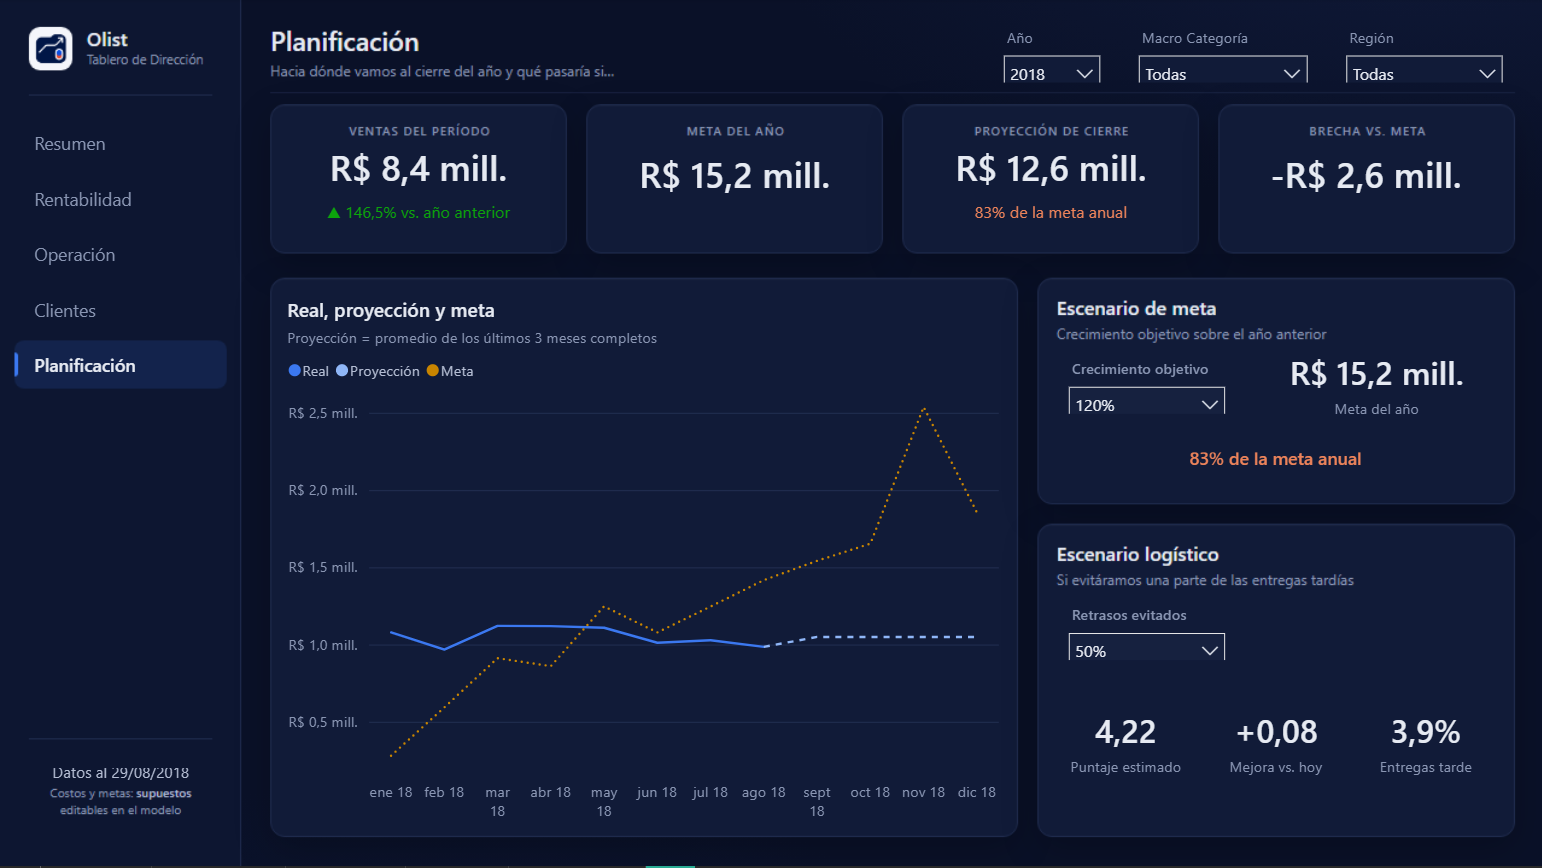
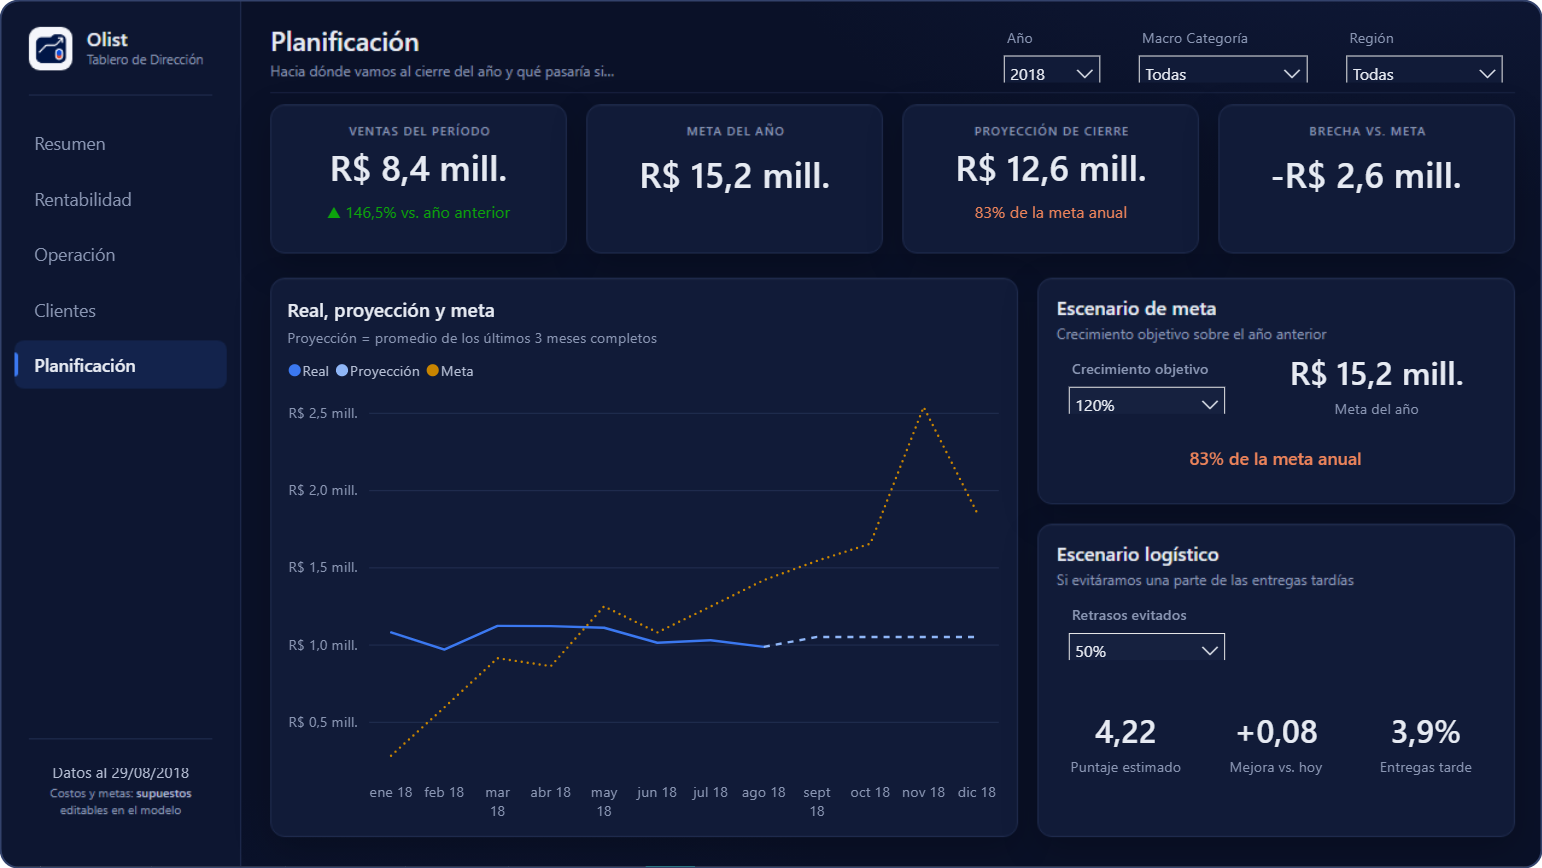
Redesign README for the GitHub project page
- Centered header with badges and section links over the hero image.
- Key findings as stat cards instead of a table with an empty header.
- Pages as a captioned 2x2 gallery (replaces the duplicated page table
  and the uncaptioned thumbnails).
- Mermaid diagram of the star schema; repository tree collapsed.
- Screenshots framed with rounded corners and a thin border so the
  dark report stands out on both GitHub themes
  (design/frame_screenshots.ps1).

Changed region(s): [[0.0, 0.0, 1.0, 1.0], [0.0, 0.0, 0.0311, 0.0311]]

diff --git a/README.md b/README.md
@@ -1,57 +1,108 @@
-# Olist E-commerce · Executive Dashboard in Power BI
+<div align="center">
 
-An executive dashboard for **Olist**, the Brazilian e-commerce marketplace, built to answer three questions a leadership team asks every month: *are we on track?*, *why?* and *where do we act first?*
+# Olist E-commerce · Executive Dashboard
 
-The dashboard is in Spanish. It is a Power BI Project (PBIP): the semantic model (TMDL) and the report (PBIR) are plain text, versioned here and generated/validated with Python.
+**A Power BI dashboard that tells leadership whether the business is on track, why, and where to act first.**
 
-![Executive summary](docs/img/resumen.png)
+![Power BI](https://img.shields.io/badge/Power_BI-PBIP-F2C811?logo=powerbi&logoColor=black)
+![DAX](https://img.shields.io/badge/DAX-120%2B_measures-0A66C2)
+![Power Query](https://img.shields.io/badge/Power_Query-M-217346)
+![Python](https://img.shields.io/badge/Python-build_%26_validation-3776AB?logo=python&logoColor=white)
 
-## Key findings (Jan–Aug 2018)
+[Key findings](#key-findings) · [Pages](#pages) · [Data model](#data-model) · [Design](#report-design) · [How to open](#how-to-open-it)
 
-| | |
-|---|---|
-| **Growth** | Sales R$ 8.4M, **+146.5%** vs. the same period of 2017 and **112%** of the target so far. |
-| **Year-end risk** | At the current run-rate the year closes at **R$ 12.6M, 83% of the R$ 15.2M annual target**. |
-| **Logistics** | Late deliveries **worsened 4.3 pp** (7.8%). **75%** of them happen in transit, not in seller dispatch (9.0 vs. 2.5 days). |
-| **Satisfaction** | Late orders score **2.24 / 5** vs. **4.30** for on-time ones. Avoiding half of the late deliveries would lift the average from 4.14 to 4.22. |
-| **Concentration** | **16 of 63 categories** generate 80% of the contribution margin. |
-| **Retention** | Only 2.1% of customers buy again, and monthly cohort retention stays below 1%. |
+<br>
 
-> Margin figures use **editable cost assumptions** (cost of goods by category, 3% payment fee), since Olist does not publish costs. Targets assume +120% over the previous year. Both are flagged as assumptions in the report.
+<img src="docs/img/resumen.png" alt="Executive summary page" width="100%">
+
+<sub>Olist is a Brazilian e-commerce marketplace. The dashboard is in Spanish.</sub>
+
+</div>
+
+## Key findings
+
+<sub>January–August 2018 vs. the same period of 2017.</sub>
+
+<table>
+  <tr>
+    <td align="center" width="33%"><h2>+146.5%</h2>sales growth<br><sub>R$ 8.4M · 112% of the target so far</sub></td>
+    <td align="center" width="33%"><h2>83%</h2>of the annual target at year-end<br><sub>R$ 12.6M projected vs. R$ 15.2M</sub></td>
+    <td align="center" width="33%"><h2>+4.3 pp</h2>late deliveries (now 7.8%)<br><sub>75% happen in transit, not dispatch</sub></td>
+  </tr>
+  <tr>
+    <td align="center"><h2>2.24 vs 4.30</h2>review score, late vs. on time<br><sub>halving delays → 4.14 to 4.22</sub></td>
+    <td align="center"><h2>16 of 63</h2>categories make 80% of margin<br><sub>contribution margin, Pareto/ABC</sub></td>
+    <td align="center"><h2>2.1%</h2>of customers buy again<br><sub>monthly cohort retention &lt; 1%</sub></td>
+  </tr>
+</table>
+
+> [!NOTE]
+> Olist does not publish costs, so margin uses **editable assumptions**: cost of goods by category and a 3% payment fee. The target assumes +120% over the previous year. The report flags both as assumptions.
 
 ## Pages
 
-| Page | What it answers |
-|---|---|
-| **Resumen** | KPIs vs. prior year and target, monthly sales vs. target, target attainment by category, year-end projection. |
-| **Rentabilidad** | Contribution margin by category, Pareto/ABC and margin concentration. |
-| **Operación** | Root cause of late deliveries (seller dispatch vs. carrier) and a ranking of sellers to review. |
-| **Clientes** | Retention by first-purchase cohort, purchase frequency and ticket ranges. |
-| **Planificación** | Actual vs. projection vs. target, plus what-if scenarios (growth target, fewer late deliveries). |
-
-<p>
-  <img src="docs/img/rentabilidad.png" width="49%">
-  <img src="docs/img/operacion.png" width="49%">
-  <img src="docs/img/clientes.png" width="49%">
-  <img src="docs/img/planificacion.png" width="49%">
-</p>
+<table>
+  <tr>
+    <td width="50%" valign="top">
+      <b>Rentabilidad</b> · profitability<br>
+      <sub>Contribution margin by category, Pareto/ABC and how concentrated the margin is.</sub><br><br>
+      <img src="docs/img/rentabilidad.png" alt="Profitability page">
+    </td>
+    <td width="50%" valign="top">
+      <b>Operación</b> · logistics<br>
+      <sub>Why deliveries are late (seller dispatch vs. carrier) and which sellers to review first.</sub><br><br>
+      <img src="docs/img/operacion.png" alt="Logistics page">
+    </td>
+  </tr>
+  <tr>
+    <td valign="top">
+      <b>Clientes</b> · customers<br>
+      <sub>Retention by first-purchase cohort, purchase frequency and ticket ranges.</sub><br><br>
+      <img src="docs/img/clientes.png" alt="Customers page">
+    </td>
+    <td valign="top">
+      <b>Planificación</b> · planning<br>
+      <sub>Actual vs. projection vs. target, plus what-if scenarios for the target and for delays.</sub><br><br>
+      <img src="docs/img/planificacion.png" alt="Planning page">
+    </td>
+  </tr>
+</table>
 
 ## Data model
 
-A star schema built in Power Query from a single flat file, replacing the original one-table model, which inflated sales by 28% because payments were repeated once per order item.
+A star schema built in Power Query from a single flat file. It replaces the original one-table model, which **inflated sales by 28%** because payments were repeated once per order item.
 
-- **Facts:** `Items` (109,796 order items) and `Pagos` (100,396 payments), both related to `Pedidos` (96,124 orders).
-- **Dimensions:** `Clientes`, `Productos`, `Vendedores` and a marked `Calendario` date table.
-- **Measures:** 120+ DAX measures in folders: sales, orders, customers, logistics, reviews, profitability, prior-year comparisons, targets and projection, scenarios, and SVG visuals rendered inside tables.
-- **Design choices:** a single bidirectional relationship (`Items`↔`Pedidos`) so product filters reach order-level KPIs; prior-year comparisons capped at the last date with data; a precomputed `Recompras` table so the cohort matrix renders in ~0.2 s instead of ~8 s.
+```mermaid
+flowchart LR
+    Clientes --> Pedidos
+    Calendario --> Pedidos
+    Pedidos <--> Items
+    Pedidos --> Pagos
+    Productos --> Items
+    Vendedores --> Items
+```
+
+| Layer | Contents |
+|---|---|
+| **Facts** | `Items` (109,796 order items) and `Pagos` (100,396 payments), both related to `Pedidos` (96,124 orders) |
+| **Dimensions** | `Clientes`, `Productos`, `Vendedores` and a marked `Calendario` date table |
+| **Measures** | 120+ DAX measures in folders: sales, orders, customers, logistics, reviews, profitability, prior-year comparisons, targets and projection, scenarios, and SVG visuals rendered inside tables |
+
+Design choices:
+
+- **Filtering:** a single bidirectional relationship (`Items` ↔ `Pedidos`), so product filters reach order-level KPIs.
+- **Comparisons:** prior-year values are capped at the last date with data, so January–August is never compared against a full year.
+- **Performance:** a precomputed `Recompras` table renders the cohort matrix in ~0.2 s instead of ~8 s.
 
 ## Report design
 
-- One dark theme with a categorical palette **validated for color-vision deficiency** on the dark surface.
-- No dual-axis charts. Target and projection lines are dashed. Variance is shown with ▲/▼ and a label, never with color alone.
-- Page backgrounds are designed in HTML/CSS and rendered to PNG. The native Power BI visuals are placed on top using the same coordinates from [`design/layout.json`](design/layout.json).
+- **Palette:** a dark theme whose categorical palette is **validated for color-vision deficiency** on the dark surface.
+- **Charts:** no dual-axis charts; target and projection lines are dashed.
+- **Variance:** always shown with ▲/▼ and a label, never with color alone.
+- **Backgrounds:** designed in HTML/CSS and rendered to PNG. The native visuals are placed on top using the same coordinates from [`design/layout.json`](design/layout.json).
 
-## Repository structure
+<details>
+<summary><b>Repository structure</b></summary>
 
 ```
 Olist_Dashboard.pbip              ← open this in Power BI Desktop
@@ -65,7 +116,10 @@ design/
   build_backgrounds.py            ← HTML page backgrounds → PNG (headless Edge)
   build_report.py                 ← PBIR pages and visuals
   validate.py                     ← checks that every field used by a visual exists in the model
+docs/img/                         ← screenshots used in this README
 ```
+
+</details>
 
 ## How to open it
 
@@ -75,10 +129,10 @@ design/
 
 To regenerate the model extras, backgrounds and pages after editing `design/layout.json` (Windows, Python 3.10+, Microsoft Edge, with Power BI Desktop closed):
 
-```
+```bash
 python design/build.py
 ```
 
-## Tools
+---
 
-Power BI Desktop (PBIP/TMDL/PBIR) · DAX · Power Query (M) · Python · HTML/CSS
+<div align="center"><sub>Built by <a href="https://github.com/CordobaGabriel">Gabriel Córdoba</a> · <a href="https://www.linkedin.com/in/cordobagabriel">LinkedIn</a></sub></div>
